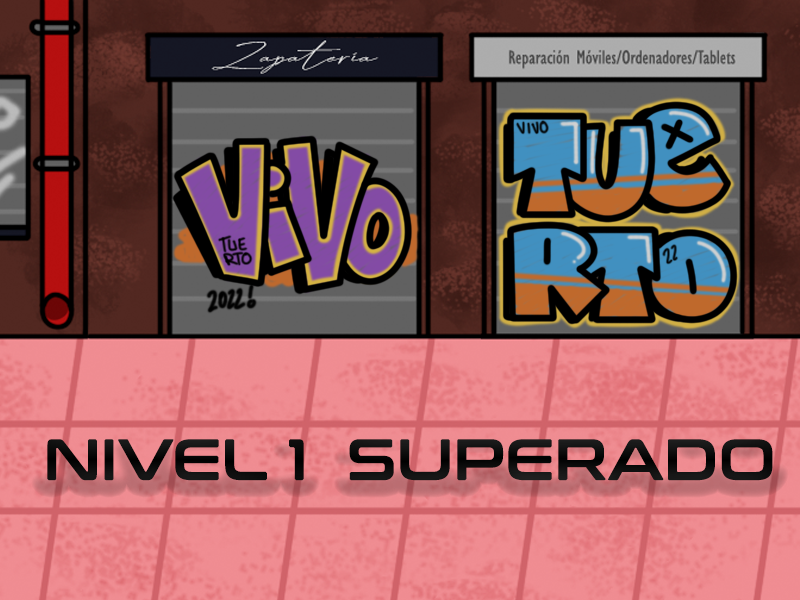
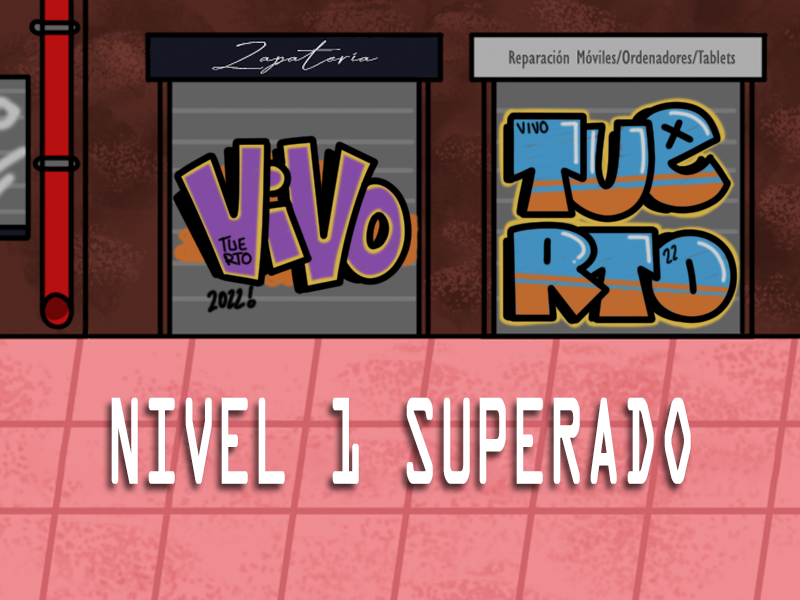
Fondos pantalla de victoria

Changed region(s): [[0.0312, 0.66, 1.0, 0.84]]

diff --git a/Prac4_GrafficJam/src/main/resources/static/gameWinOnline.js b/Prac4_GrafficJam/src/main/resources/static/gameWinOnline.js
@@ -9,12 +9,12 @@ class gameWinOnline extends Phaser.Scene{
     }
 
     preload() {
-        this.load.image('menuOnline', 'resources/finalL1.png');
+        this.load.image('finalLO', 'resources/finalLO.jpg');
         this.load.image('inicioOnline', 'resources/menu.png');
     }
     
     create(){
-        this.background = this.add.image(0,0,'menuOnline').setOrigin(0).setScale(1);
+        this.background = this.add.image(0,0,'finalLO').setOrigin(0).setScale(1);
         //gameWinOnlineActive = true;
 
         console.log("He cambiado WEB_gameWin a false");

diff --git a/Prac4_GrafficJam/target/classes/static/gameWinOnline.js b/Prac4_GrafficJam/target/classes/static/gameWinOnline.js
@@ -9,12 +9,12 @@ class gameWinOnline extends Phaser.Scene{
     }
 
     preload() {
-        this.load.image('menuOnline', 'resources/finalL1.png');
+        this.load.image('finalLO', 'resources/finalLO.jpg');
         this.load.image('inicioOnline', 'resources/menu.png');
     }
     
     create(){
-        this.background = this.add.image(0,0,'menuOnline').setOrigin(0).setScale(1);
+        this.background = this.add.image(0,0,'finalLO').setOrigin(0).setScale(1);
         //gameWinOnlineActive = true;
 
         console.log("He cambiado WEB_gameWin a false");
